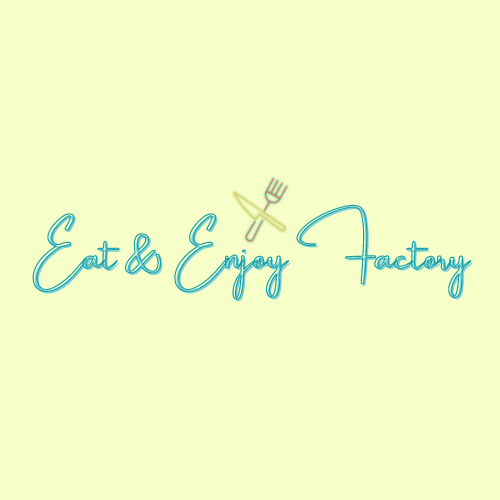
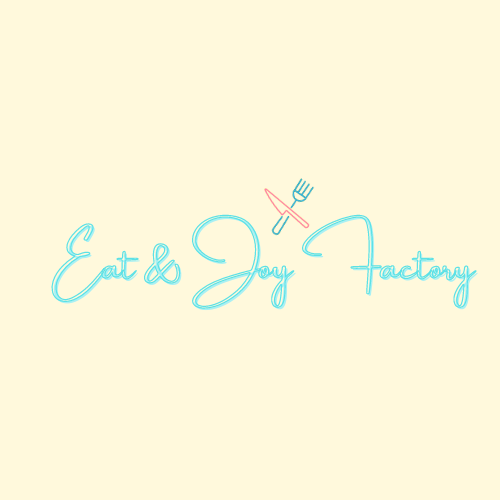
mengubah nama title, mengubah gambar slider 1 dll

Changed region(s): [[0.06, 0.33, 0.96, 0.63]]

diff --git a/index.html b/index.html
@@ -12,7 +12,7 @@
       <!--Let browser know website is optimized for mobile-->
       <meta name="viewport" content="width=device-width, initial-scale=1.0"/>
 
-      <title>Eat & Enjoy Factory</title>
+      <title>Eat & Joy Factory</title>
     </head>
 
     <body id="home" class="scrollspy">
@@ -51,28 +51,28 @@
               <li>
                 <img src="assets/img/slider/1.png">
                 <div class="caption left-align">
-                  <h3>Eat & Enjoy Factory</h3>
+                  <h3>Eat & Joy Factory</h3>
                   <h5 class="light grey-text text-lighten-3">Nikmat sejak dari mata.</h5>
                 </div>
               </li>
               <li>
                 <img src="assets/img/slider/2.jpg">
                 <div class="caption right-align">
-                  <h3>Eat & Enjoy Factory</h3>
+                  <h3>Eat & Joy Factory</h3>
                   <h5 class="light grey-text text-lighten-3">Nikmat sejak dari mata.</h5>
                 </div>
               </li>
               <li>
                 <img src="assets/img/slider/3.jpg">
                 <div class="caption center-align">
-                  <h3>Eat & Enjoy Factory</h3>
+                  <h3>Eat & Joy Factory</h3>
                   <h5 class="light grey-text text-lighten-3">Nikmat sejak dari mata.</h5>
                 </div>
               </li>
               <li>
                 <img src="assets/img/slider/4.jpg">
                 <div class="caption right-align">
-                  <h3>Eat & Enjoy Factory</h3>
+                  <h3>Eat & Joy Factory</h3>
                   <h5 class="light grey-text text-lighten-3">Nikmat sejak dari mata.</h5>
                 </div>
               </li>
@@ -85,8 +85,8 @@
                       <div class="row">
                         <h3 class="center light grey-text text-darken-3">About Us</h3>
                         <div class="col m6 light">
-                            <h5>Eat & Enjoy Factory</h5>
-                            <p>Eat & Enjoy Factory terletak di Karawang, bernuansa nyaman dan hangat yang cocok dijadikan tempat berkumpul bersama teman, sahabat, keluarga, dan orang-orang terkasih. E&JF dibuka pada pukul 09.00 - 21.00 WIB. E&JF menyediakan berbagai jenis appetizer, main course, dan juga dessert</p>
+                            <h5>Eat & Joy Factory</h5>
+                            <p>Eat & Joy Factory terletak di Karawang. Restoran kami mengusung tema vintage yang memberikan suasana nyaman dan hangat, sehingga sangat cocok untuk dijadikan sebagai tempat berkumpul bersama teman, sahabat, keluarga, ataupun orang-orang terkasih. E&JF dibuka pada pukul 09.00 - 21.00 WIB. E&JF menyediakan berbagai jenis appetizer, main course, dan juga dessert</p>
                         </div>
                         <div class="col m6 light">
                             <p>Appetizer</p>
@@ -235,7 +235,7 @@
                         </div>
                       <ul class="collection width-header">
                         <li class="collection-header center"><h4>Our Office</h4></li>
-                        <li class="collection-item">Eat & Enjoy Factory</li>
+                        <li class="collection-item">Eat & Joy Factory</li>
                         <li class="collection-item">Jl. By Pass Simpang Jomin, Karawang</li>
                         <li class="collection-item">West Java, Indonesia</li>
                       </ul>
@@ -277,7 +277,7 @@
 
               <!--footer-->
               <footer class="cyan lighten-4 white-text center">
-                <p class="flow-text">Eat & Enjoy Factory. Copyright 2020.</p>
+                <p class="flow-text">Eat & Joy Factory. Copyright 2020.</p>
               </footer>
 
                
